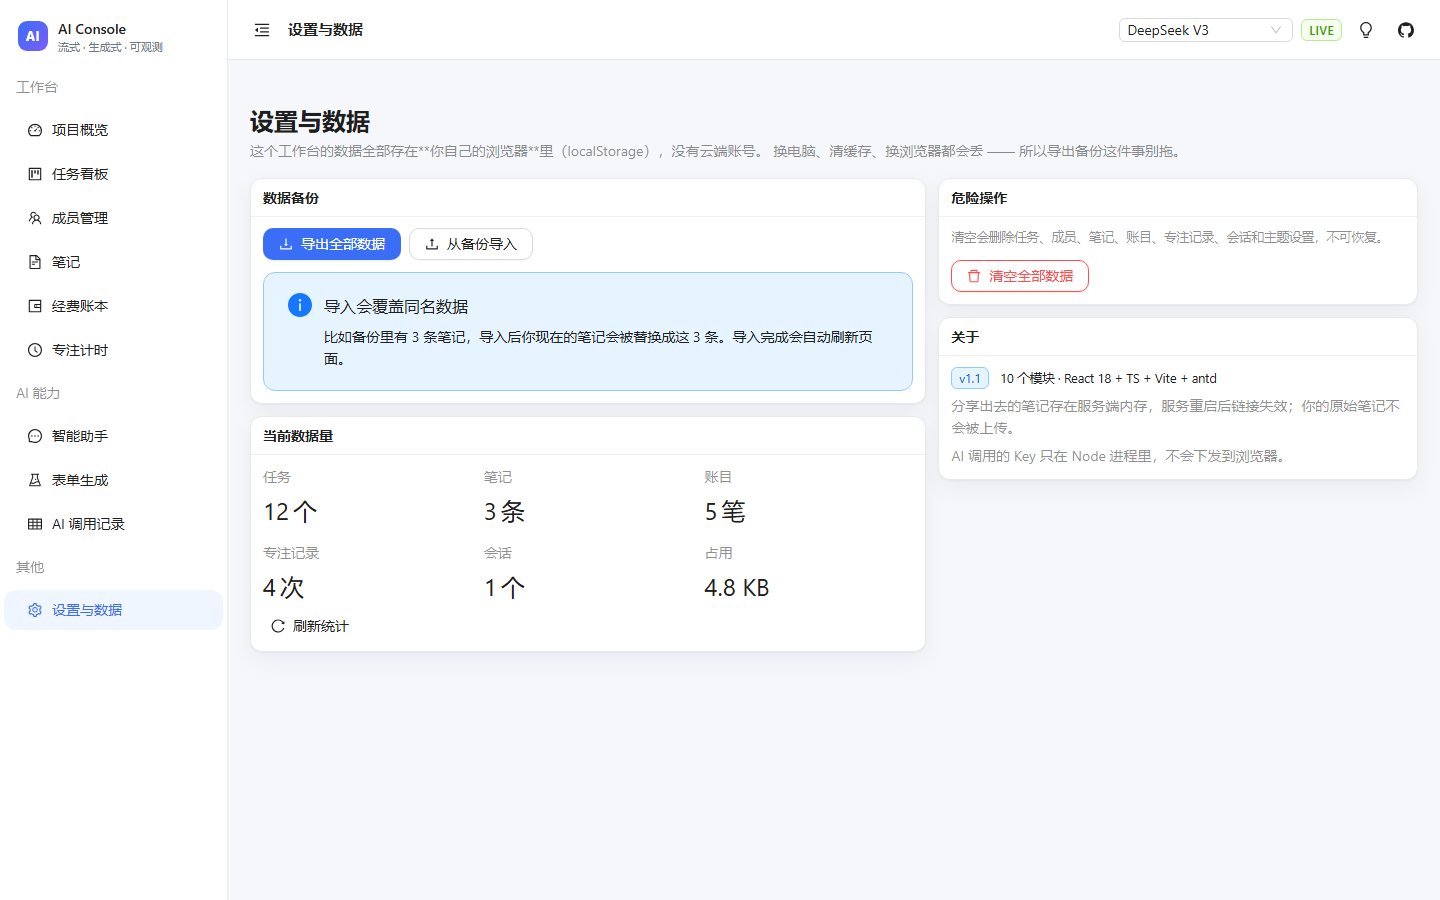
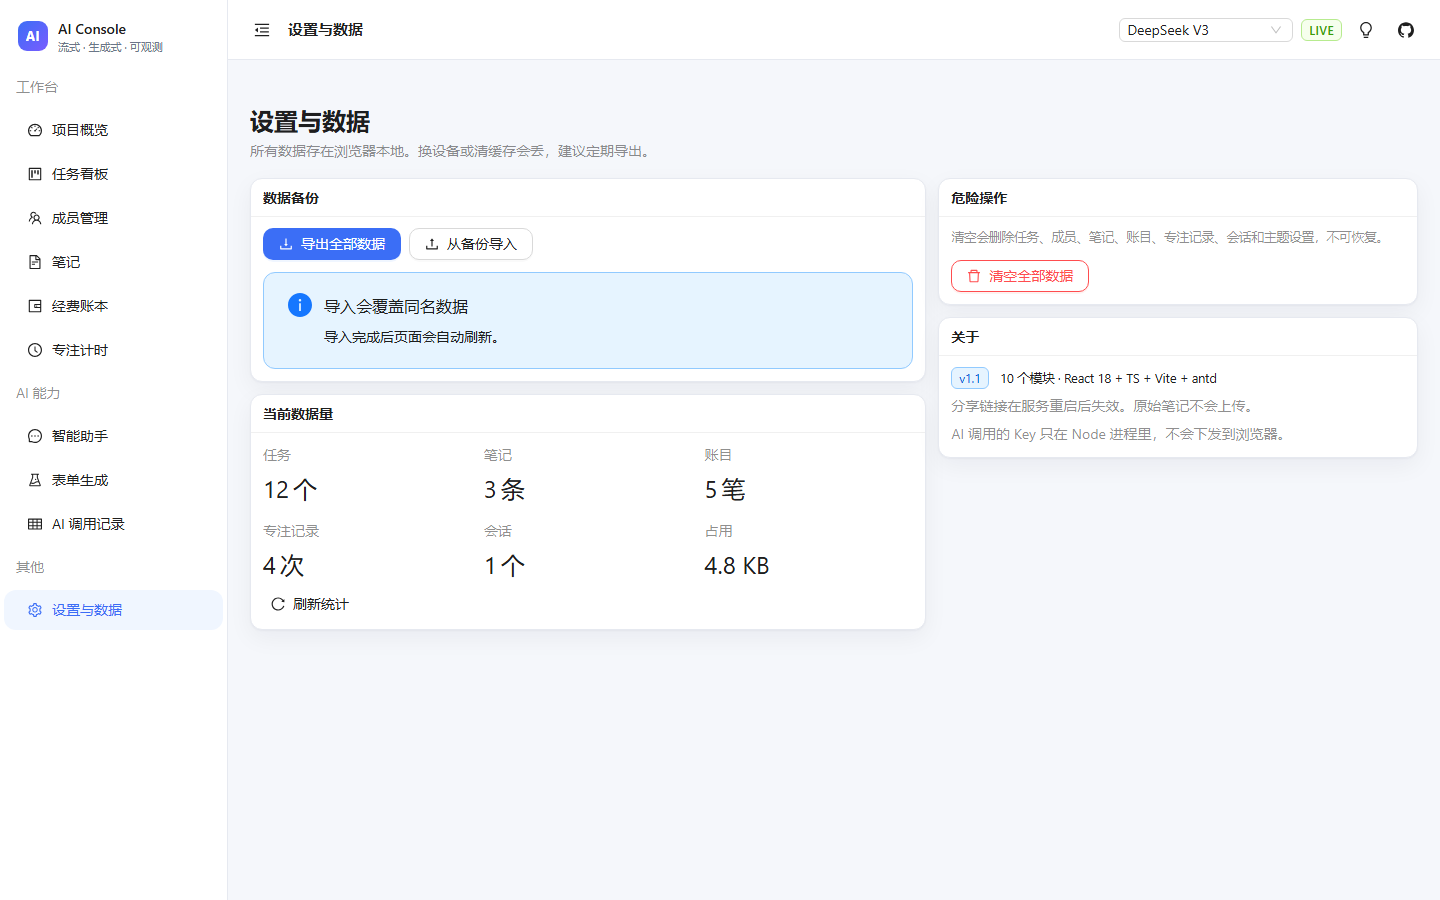
copy: 全站文案去掉解释性表述与营销腔
- 专注弹窗删掉「提示窗口不会跳转页面」这类自我说明
- 各页面副标题从「解释设计」改为「说明事实」
- 提示音/通知文案去掉情绪化措辞
- 生成式 UI 与账单页去掉技术说教

diff --git a/src/features/focus/FocusPage.tsx b/src/features/focus/FocusPage.tsx
@@ -118,9 +118,9 @@ export function FocusPage() {
 
     if (mode === 'focus') {
       add(focusMinutes, taskId);
-      notify('专注结束', `已完成 ${focusMinutes} 分钟，起来活动一下。`);
+      notify('专注结束', `已完成 ${focusMinutes} 分钟`);
     } else {
-      notify('休息结束', '回来继续吧。');
+      notify('休息结束', '休息时间到。');
     }
   }, [add, focusMinutes, mode, notify, taskId]);
 
@@ -217,7 +217,7 @@ export function FocusPage() {
           专注计时
         </Typography.Title>
         <Typography.Paragraph type="secondary" style={{ marginBottom: 0 }}>
-          时间可自己调。到点会在页面里弹提醒、同时发一条系统通知 —— 就算你切到别的应用也能看到，不会把你拽回这个页面。
+          到点会弹窗并发送系统通知。
         </Typography.Paragraph>
       </div>
 
@@ -329,14 +329,14 @@ export function FocusPage() {
 
             <div className="focus-notify">
               <BellOutlined />
-              {notifyState === 'granted' && <span>桌面通知已开启，切到别的应用也会提醒</span>}
+              {notifyState === 'granted' && <span>桌面通知已开启</span>}
               {notifyState === 'default' && (
                 <Button size="small" type="link" onClick={() => void Notification.requestPermission().then(setNotifyState)}>
                   开启桌面通知
                 </Button>
               )}
-              {notifyState === 'denied' && <span>桌面通知被拒绝，只剩页面内提醒（可在浏览器设置里改）</span>}
-              {notifyState === 'unsupported' && <span>当前环境不支持桌面通知</span>}
+              {notifyState === 'denied' && <span>通知已被拒绝，可在浏览器设置里开启</span>}
+              {notifyState === 'unsupported' && <span>此浏览器不支持通知</span>}
             </div>
           </Card>
         </Col>
@@ -401,13 +401,8 @@ export function FocusPage() {
         }}
       >
         <p style={{ margin: '8px 0' }}>
-          {mode === 'focus'
-            ? `已经专注 ${focusMinutes} 分钟，起来走两步、看看远处。`
-            : `休息 ${breakMinutes} 分钟结束，准备好就继续。`}
+          {mode === 'focus' ? `专注 ${focusMinutes} 分钟，结束。` : '休息结束。'}
         </p>
-        <Typography.Text type="secondary" style={{ fontSize: 12 }}>
-          提示窗口不会跳转页面，关掉就还在原地。
-        </Typography.Text>
       </Modal>
     </div>
   );

diff --git a/src/features/settings/SettingsPage.tsx b/src/features/settings/SettingsPage.tsx
@@ -39,8 +39,7 @@ export function SettingsPage() {
           设置与数据
         </Typography.Title>
         <Typography.Paragraph type="secondary" style={{ marginBottom: 0 }}>
-          这个工作台的数据全部存在你自己的浏览器里（localStorage），没有云端账号。
-          换电脑、清缓存、换浏览器都会丢 —— 所以导出备份这件事别拖。
+          所有数据存在浏览器本地。换设备或清缓存会丢，建议定期导出。
         </Typography.Paragraph>
       </div>
 
@@ -79,7 +78,7 @@ export function SettingsPage() {
               type="info"
               showIcon
               message="导入会覆盖同名数据"
-              description="比如备份里有 3 条笔记，导入后你现在的笔记会被替换成这 3 条。导入完成会自动刷新页面。"
+              description="导入完成后页面会自动刷新。"
             />
           </Card>
 
@@ -144,7 +143,7 @@ export function SettingsPage() {
                 <Tag color="blue">v1.1</Tag> 10 个模块 · React 18 + TS + Vite + antd
               </span>
               <Typography.Text type="secondary">
-                分享出去的笔记存在服务端内存，服务重启后链接失效；你的原始笔记不会被上传。
+                分享链接在服务重启后失效。原始笔记不会上传。
               </Typography.Text>
               <Typography.Text type="secondary">
                 AI 调用的 Key 只在 Node 进程里，不会下发到浏览器。

diff --git a/src/features/notes/NotesPage.tsx b/src/features/notes/NotesPage.tsx
@@ -150,7 +150,7 @@ export function NotesPage() {
             笔记
           </Typography.Title>
           <Typography.Paragraph type="secondary" style={{ marginBottom: 0 }}>
-            会议记录、课程笔记、随手记。支持 Markdown 预览，停止输入自动保存。
+            支持 Markdown，停止输入自动保存。
           </Typography.Paragraph>
         </div>
         <Button type="primary" icon={<PlusOutlined />} onClick={addNote}>
@@ -280,7 +280,7 @@ export function NotesPage() {
                 <Input.TextArea
                   value={draft.content}
                   onChange={(event) => setDraft((prev) => ({ ...prev, content: event.target.value }))}
-                  placeholder="支持 Markdown：# 标题、- 列表、**加粗**、`代码`。用 #标签 可以自动归类。"
+                  placeholder="支持 Markdown，用 #标签 归类"
                   autoSize={{ minRows: 16, maxRows: 30 }}
                   className="note-body-input"
                 />
@@ -312,8 +312,7 @@ export function NotesPage() {
         }
       >
         <Typography.Paragraph type="secondary" style={{ fontSize: 12 }}>
-          笔记本身只存在你的浏览器里；分享只是把当前内容复制一份到服务端，生成一个只读链接。
-          撤销后链接立即失效。
+          生成只读链接，撤销后立即失效。
         </Typography.Paragraph>
 
         {sharing && <Typography.Text type="secondary">正在生成链接…</Typography.Text>}

diff --git a/src/features/generator/GeneratorPage.tsx b/src/features/generator/GeneratorPage.tsx
@@ -64,8 +64,7 @@ export function GeneratorPage() {
         <Typography.Title level={3} style={{ marginBottom: 4 }}>
           生成式 UI
         </Typography.Title>        <Typography.Paragraph type="secondary" style={{ marginBottom: 0 }}>
-          模型不生成组件代码，只生成一份受约束的 UI Schema；前端用 zod 校验通过后才渲染。
-          这样模型再离谱，最坏结果也只是"渲染失败"，而不是"执行了任意代码"。
+          描述一下，生成表单或表格。
         </Typography.Paragraph>
       </div>
 
@@ -75,7 +74,7 @@ export function GeneratorPage() {
             value={prompt}
             onChange={(event) => setPrompt(event.target.value)}
             autoSize={{ minRows: 2, maxRows: 4 }}
-            placeholder="用一句话描述你想要的表单或列表"
+            placeholder="描述你想要的表单"
           />
         </Space.Compact>
 
@@ -138,7 +137,7 @@ export function GeneratorPage() {
         ) : (
           <Empty
             image={Empty.PRESENTED_IMAGE_SIMPLE}
-            description="输入一句描述，模型会生成一份可直接使用的表单或表格"
+            description="描述你想要的表单"
           />
         )}
       </Card>

diff --git a/src/features/chat/ChatPage.tsx b/src/features/chat/ChatPage.tsx
@@ -294,7 +294,7 @@ export function ChatPage() {
                 disabled={messages.length === 0}
               />
             </Tooltip>
-            <Tooltip title="同一个回答，两种更新策略的渲染次数对比。逐 token 模式会明显更卡。">
+            <Tooltip title="对比两种更新策略的提交次数">
               <Segmented
                 size="small"
                 value={strategy}
@@ -315,10 +315,10 @@ export function ChatPage() {
                 image={Empty.PRESENTED_IMAGE_SIMPLE}
                 description={
                   <span>
-                    问点什么吧 —— 回答会流式输出，顶部胶囊会实时告诉你进度
+                    随便问点什么
                     <br />
                     <Typography.Text type="secondary" style={{ fontSize: 12 }}>
-                      左侧是会话列表，右键可以重命名或删除
+                      左侧可以切换会话
                     </Typography.Text>
                   </span>
                 }

diff --git a/src/features/expenses/ExpensesPage.tsx b/src/features/expenses/ExpensesPage.tsx
@@ -159,7 +159,7 @@ export function ExpensesPage() {
             经费账本
           </Typography.Title>
           <Typography.Paragraph type="secondary" style={{ marginBottom: 0 }}>
-            谁垫的钱、谁该分摊多少，自动算成「谁转给谁」。金额以分为单位存整数，不会出现 0.1 + 0.2 的问题。
+            记完自动算出谁该转给谁。
           </Typography.Paragraph>
         </div>
         <Space wrap>
@@ -229,7 +229,7 @@ export function ExpensesPage() {
             extra={<SwapOutlined />}
           >
             {transfers.length === 0 ? (
-              <Empty image={Empty.PRESENTED_IMAGE_SIMPLE} description="大家都是平的，不用转钱" />
+              <Empty image={Empty.PRESENTED_IMAGE_SIMPLE} description="无需转账" />
             ) : (
               <ul className="settle-list">
                 {transfers.map((transfer, index) => (

diff --git a/src/features/workspace/BoardPage.tsx b/src/features/workspace/BoardPage.tsx
@@ -123,7 +123,7 @@ export function BoardPage() {
             任务看板
           </Typography.Title>
           <Typography.Paragraph type="secondary" style={{ marginBottom: 0 }}>
-            拖动卡片在列之间移动；点卡片编辑，右上角菜单可以直接删除或让 AI 拆解。
+            拖动卡片换列，点击卡片编辑。
           </Typography.Paragraph>
         </div>
         <Space wrap>
@@ -326,7 +326,7 @@ export function BoardPage() {
         )}
 
         <div className="drawer-hint">
-          <DragOutlined /> 桌面端可以直接拖动卡片换列；移动端请在上方「状态」里改。
+          <DragOutlined /> 移动端可用上方「状态」改列。
         </div>
       </Drawer>
     </div>

diff --git a/src/features/logs/LogsPage.tsx b/src/features/logs/LogsPage.tsx
@@ -167,8 +167,7 @@ export function LogsPage() {
           调用日志
         </Typography.Title>
         <Typography.Paragraph type="secondary" style={{ marginBottom: 0 }}>
-          记录保存在服务端，<b>按访客隔离</b>：别人打开同一个链接，只能看到自己的记录。
-          服务重启后清空（内存存储）。
+          只显示你自己的调用记录，服务重启后清空。
         </Typography.Paragraph>
       </div>
 

diff --git a/src/components/AppShell.tsx b/src/components/AppShell.tsx
@@ -154,7 +154,7 @@ export function AppShell() {
                 <>
                   {menu}
                   {!models.some((m) => m.free) && (
-                    <div className="model-hint">在 .env 配置 DASHSCOPE / SILICONFLOW / ZHIPU / ARK 任一 Key，即可解锁对应模型</div>
+                    <div className="model-hint">配置任一 Key 后，这里会出现对应模型</div>
                   )}
                 </>
               )}

diff --git a/src/features/workspace/OverviewPage.tsx b/src/features/workspace/OverviewPage.tsx
@@ -106,7 +106,7 @@ export function OverviewPage() {
             项目概览
           </Typography.Title>
           <Typography.Paragraph type="secondary" style={{ marginBottom: 0 }}>
-            「工作台」示例项目 · 数据存在浏览器本地，可直接编辑
+            示例项目，数据存在浏览器本地
           </Typography.Paragraph>
         </div>
         <Button type="primary" icon={<RobotOutlined />} onClick={askAi}>

diff --git a/src/features/workspace/MembersPage.tsx b/src/features/workspace/MembersPage.tsx
@@ -152,7 +152,7 @@ export function MembersPage() {
           成员管理
         </Typography.Title>
         <Typography.Paragraph type="secondary" style={{ marginBottom: 0 }}>
-          支持搜索、状态筛选、多选批量移除；移除成员时，TA 的任务会自动变成未指派。
+          移除成员后，TA 的任务会变成未指派。
         </Typography.Paragraph>
       </div>
 

diff --git a/src/features/notes/SharePage.tsx b/src/features/notes/SharePage.tsx
@@ -81,7 +81,7 @@ export function SharePage() {
       </Card>
 
       <div className="share-foot">
-        这条笔记由作者主动分享，内容存在服务端内存里，服务重启后失效。
+        分享链接在服务重启后失效。
       </div>
     </div>
   );
